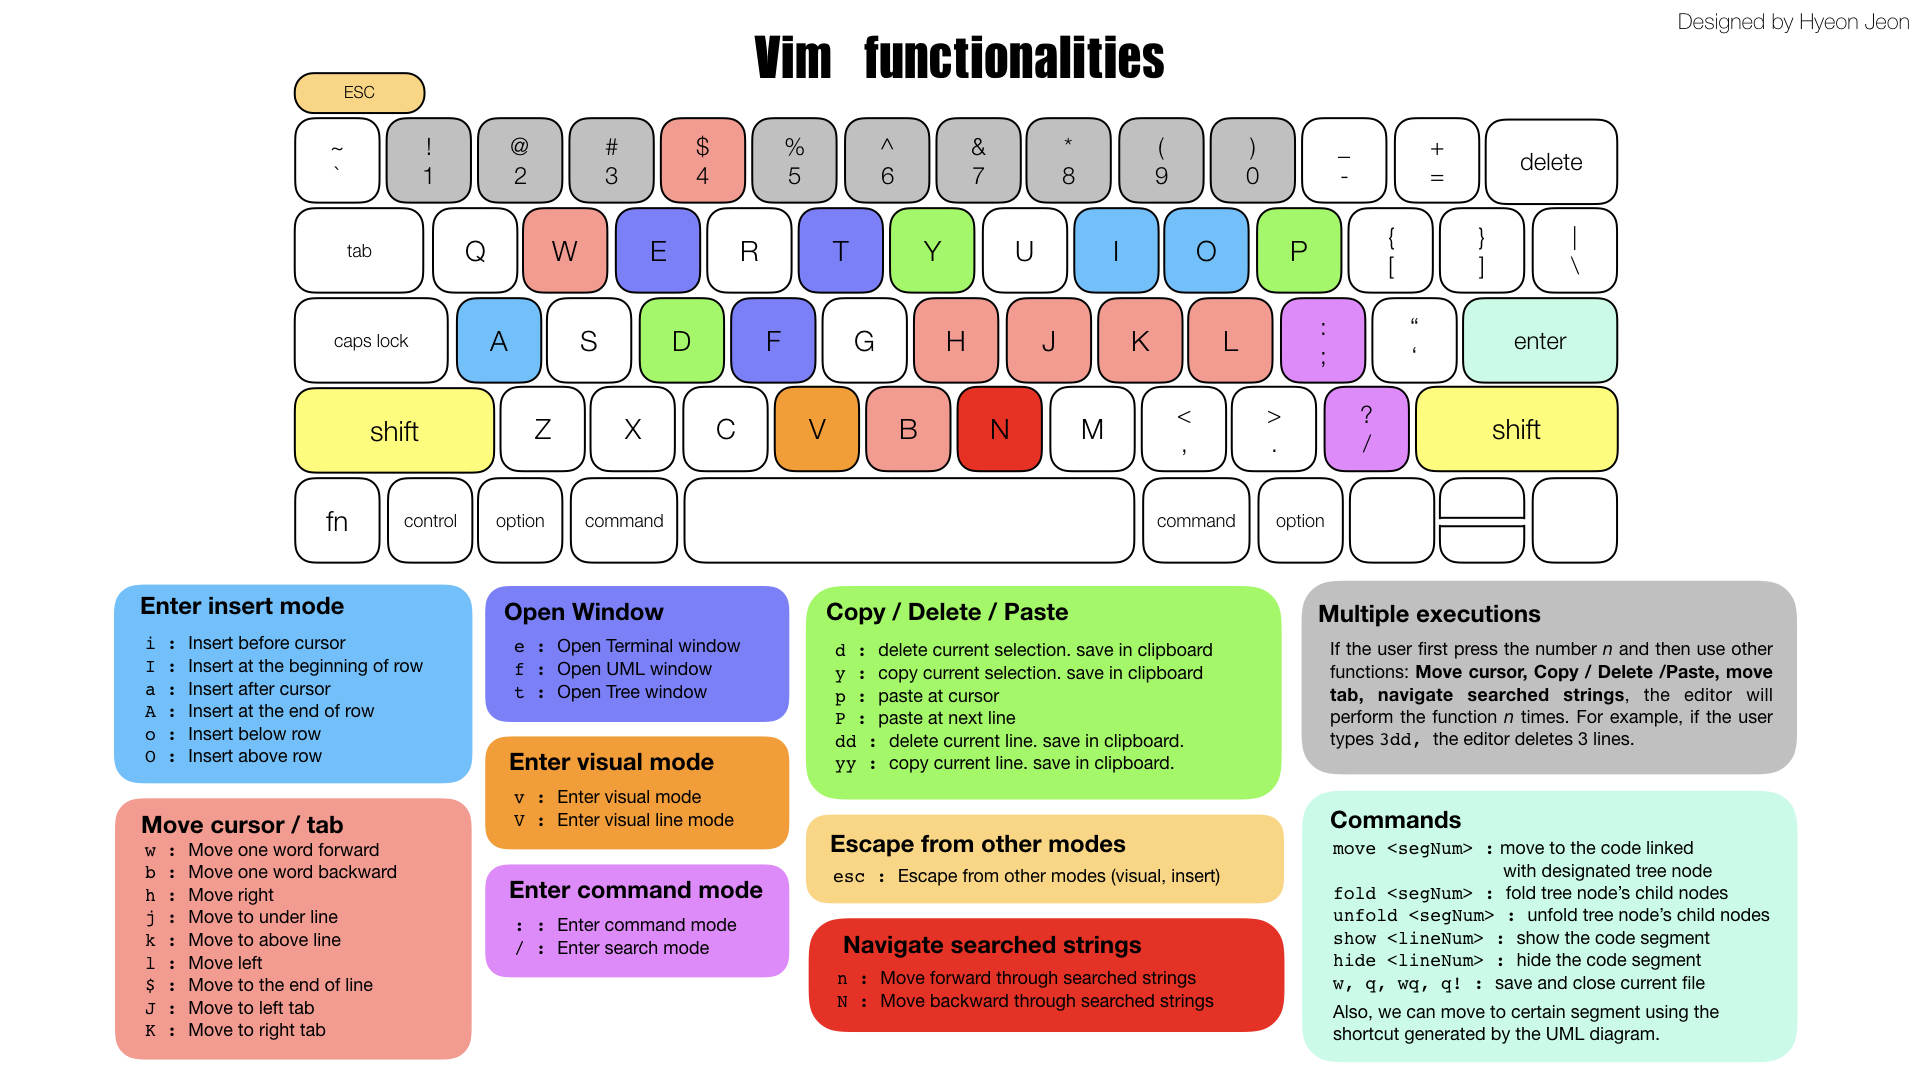
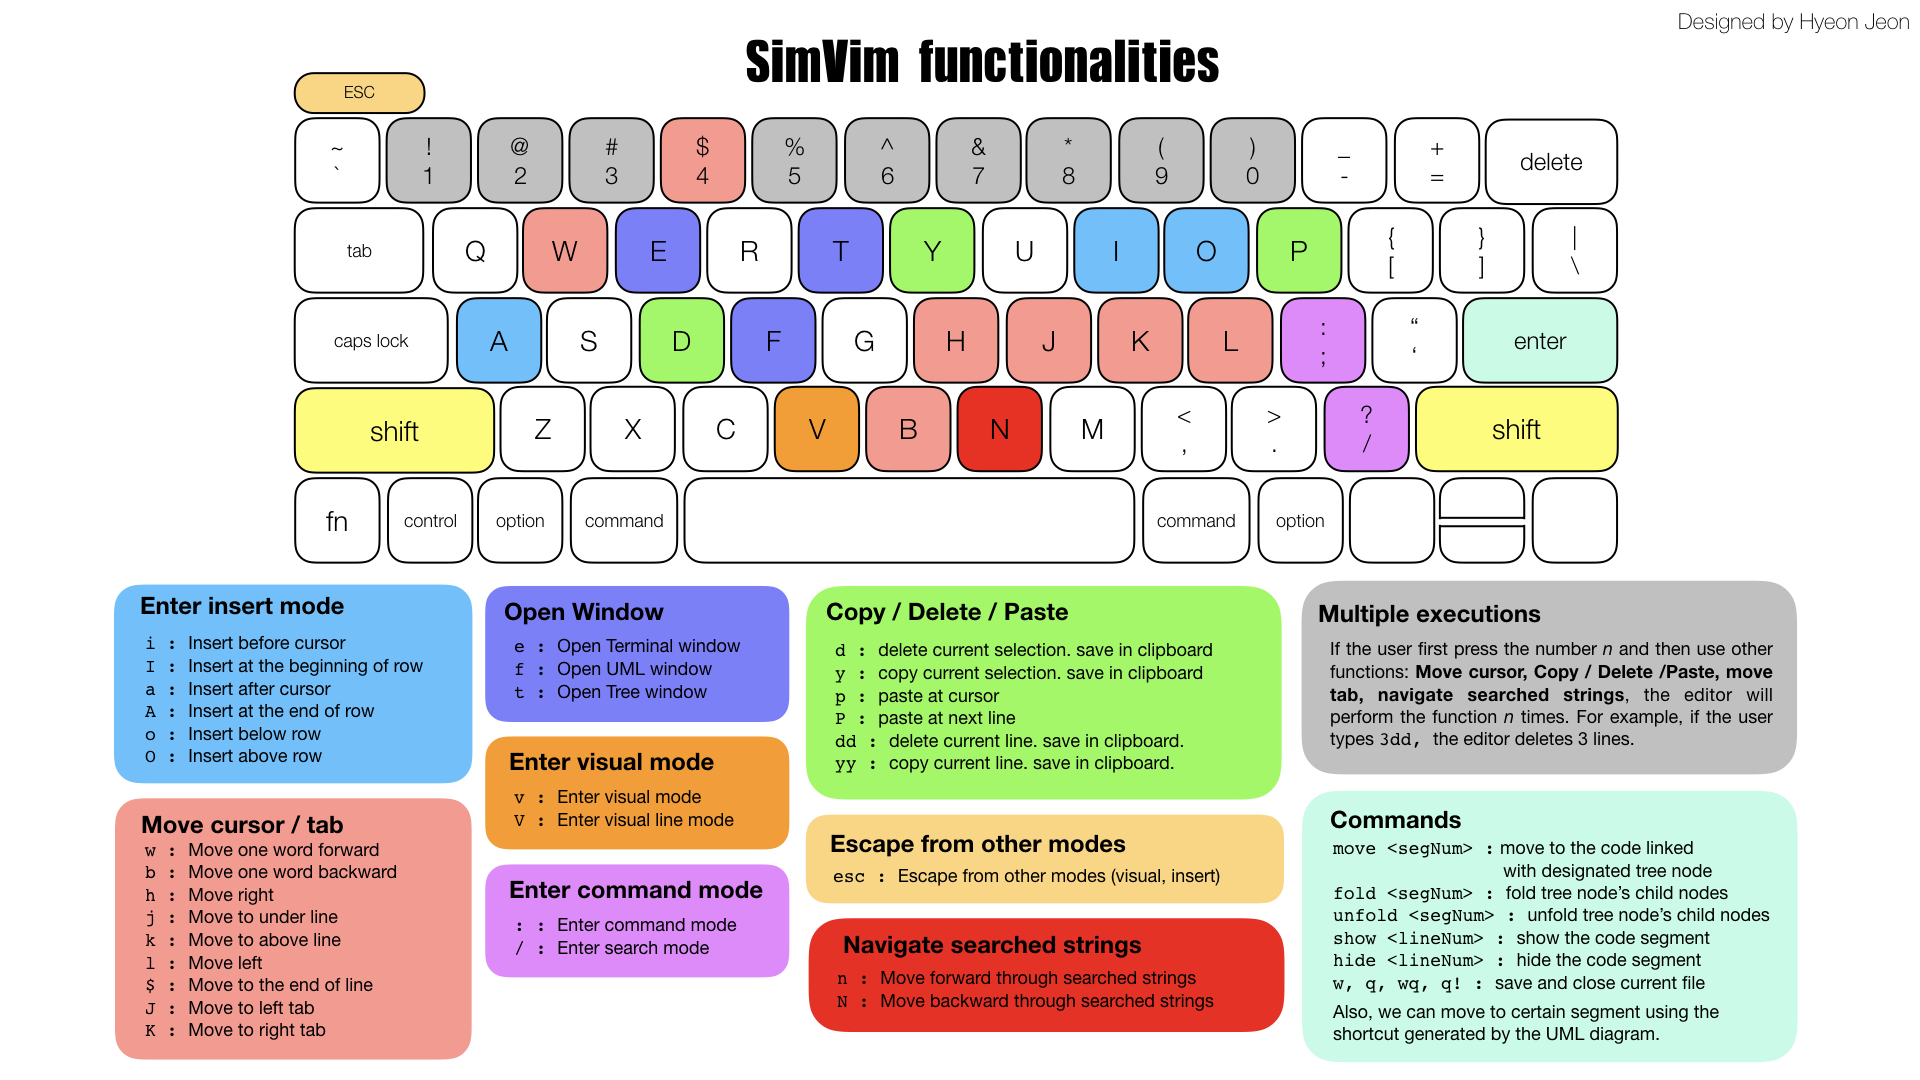
README modified / functionalities added

Changed region(s): [[0.375, 0.0306, 0.6562, 0.0917]]

diff --git a/README.md b/README.md
@@ -1,6 +1,8 @@
-# Team 7 group project
+# SimVim
 
-POSTECH CSED332 Software Design Method (2019 Fall)
+Convienient, light, simple vim. 
+
+Implemented by the undergraduated students from POSTECH, POSTECH CSED332 Software Design Method (2019 Fall)
 
 
 ### Contributor
@@ -39,5 +41,32 @@ Also, as the "original vim" had developed for a long time since it's the first r
 ![Functionalities layout](materials/images/functionalites.jpeg)
 
 #### Summary
+
+- Basic vim functionalities
+  - Save / close file
+  - Tab control
+  - Cursor movement
+  - Delete / Copy / Paste
+  - Search / iterate thorugh found strings
+  - Multiple execution
+- Insert mode
+- Commnad mode
+- Visual mode
+  - Basic visual mode
+  - Visual linde mode
+- Open / Close code segment
+- Project tree structure
+  - Show the tree structure of the project 
+  - Expand / minimize certain node of the tree
+  - Assign identifier to each node
+  - move / open to the code corressponding to certain node
+- UML diagram
+  - Show the diagram of the project structure
+  - Generate shortcut to each classes
+  - Navigate using the shortcut
+- Integrating terminal
+  - Access terminal window
+
+Reference our [user scenario](wikis/explanation/user_scenario) for the specific functionalities.
 
 
